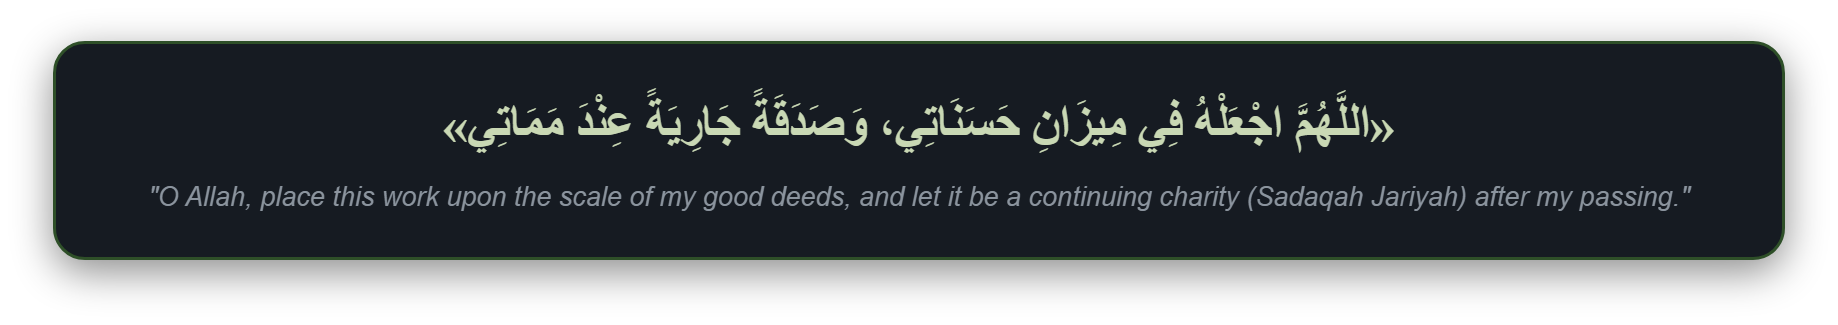
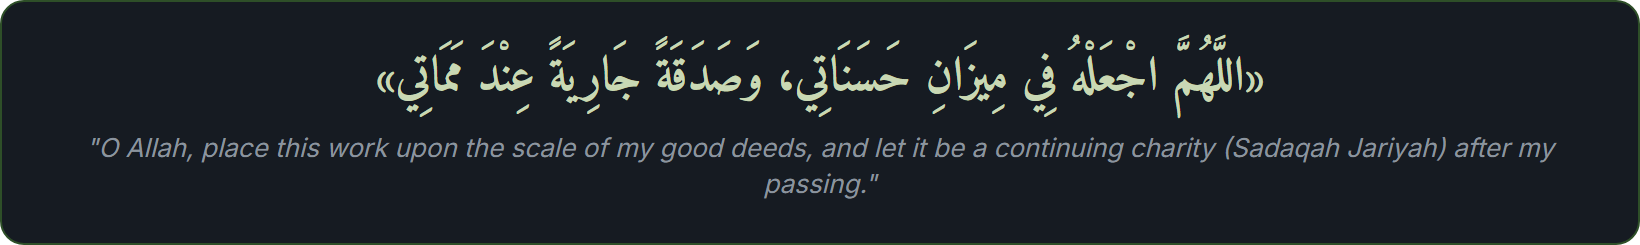
fix(readme): match exact demo card styling and showcase Quran reader themes

diff --git a/README.md b/README.md
@@ -1,7 +1,7 @@
 <div align="center">
 
 <p align="center">
-  <img src="brand/bismillah-card.png" alt="Bismillah" width="510" />
+  <img src="brand/bismillah-card.png" alt="Bismillah" width="600" />
 </p>
 
 <p align="center">
@@ -73,9 +73,10 @@ Completely offline-capable and free of third-party analytics, account mandates, 
 ---
 
 ### 2. The Holy Quran
-| Arabic (العربية) | English |
-| :---: | :---: |
-| <img src="screenshots/quran_ar.jpg" width="340" alt="Quran Arabic" /> | <img src="screenshots/quran_en.jpg" width="340" alt="Quran English" /> |
+
+| <img src="screenshots/quran_theme_amoled.jpg" width="245" alt="AMOLED Dark" /> | <img src="screenshots/quran_theme_light.jpg" width="245" alt="Classic Light" /> | <img src="screenshots/quran_theme_olive.jpg" width="245" alt="Athar's Theme" /> |
+| :---: | :---: | :---: |
+| **أسود نقي (AMOLED)**<br>AMOLED Dark | **الأبيض الكلاسيكي**<br>Classic Light | **طابع أثر**<br>Athar's Theme |
 
 <br>
 
@@ -106,7 +107,7 @@ Athar is currently in its public Beta stage. Community feedback, suggestions, an
 <div align="center">
 
 <p align="center">
-  <img src="brand/dua-card.png" alt="Athar Dua" width="680" />
+  <img src="brand/dua-card.png" alt="Athar Dua" width="100%" />
 </p>
 
 </div>
